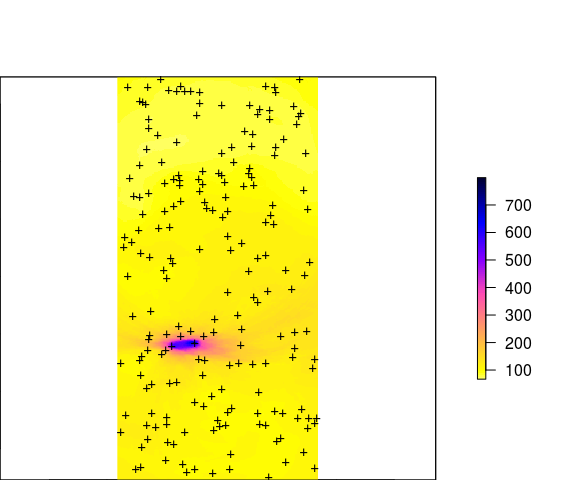
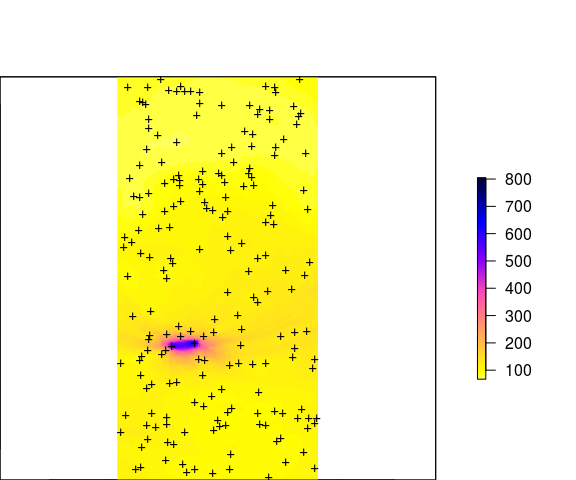
Added locations of the data sets in the README

diff --git a/README.md b/README.md
@@ -3,6 +3,7 @@ RFsp — Random Forest for spatial data (R tutorial)
 Hengl, T., Nussbaum, M., and Wright, M.N.
 
 -   [Installing and loading packages](#installing-and-loading-packages)
+-   [Data sets in use](#data-sets-in-use)
 -   [Spatial prediction 2D continuous variable using buffer distances](#spatial-prediction-2d-continuous-variable-using-buffer-distances)
 -   [Spatial prediction 2D variable with covariates](#spatial-prediction-2d-variable-with-covariates)
 -   [Spatial prediction of binomial variable](#spatial-prediction-of-binomial-variable)
@@ -49,13 +50,14 @@ library(rgdal)
 
     ## Loading required package: sp
 
-    ## rgdal: version: 1.2-7, (SVN revision 660)
+    ## rgdal: version: 1.3-3, (SVN revision (unknown))
     ##  Geospatial Data Abstraction Library extensions to R successfully loaded
-    ##  Loaded GDAL runtime: GDAL 2.2.1, released 2017/06/23
+    ##  Loaded GDAL runtime: GDAL 2.3.1, released 2018/06/22
     ##  Path to GDAL shared files: /usr/local/share/gdal
+    ##  GDAL binary built with GEOS: TRUE 
     ##  Loaded PROJ.4 runtime: Rel. 4.9.2, 08 September 2015, [PJ_VERSION: 492]
     ##  Path to PROJ.4 shared files: (autodetected)
-    ##  Linking to sp version: 1.2-4
+    ##  Linking to sp version: 1.2-5
 
 ``` r
 library(raster)
@@ -89,7 +91,7 @@ library(plyr)
 library(plotKML)
 ```
 
-    ## plotKML version 0.5-6 (2016-05-02)
+    ## plotKML version 0.5-9 (2017-05-15)
 
     ## URL: http://plotkml.r-forge.r-project.org/
 
@@ -111,6 +113,18 @@ We also load a number of local function prepared for the purpose of this tutoria
 ``` r
 source('./RF_vs_kriging/R/RFsp_functions.R')
 ```
+
+Data sets in use
+----------------
+
+This tutorial uses several data sets that are either available from the R packages listed or can be loaded from the `/RF_vs_kriging/data` directory. This is the complete list of data sets used in the tutorial and the scientific paper:
+
+-   Muse data set (sp package): topsoil heavy metal concentrations, along with a number of soil and landscape variables at 155 observation locations;
+-   Swiss rainfall dataset SIC 1997 (G Dubois, Malczewski, & De Cort, 2003) (see folder `./RF_vs_kriging/data/rainfall`): 467 measurements of daily rainfall in Switzerland on the 8th of May 1986;
+-   Ebergötzen data set (plotKML package): 3670 ground observations of soil types and texture by hand,
+-   National Cooperative Soil Survey (NCSS) data set for a sub-area around Carson (see folder `./RF_vs_kriging/data/NRCS`): contains 3418 measurements of clay content in soil;
+-   The National Geochemical Survey data set (see folder `./RF_vs_kriging/data/geochem`): 2858 points with measurements of Pb, Cu, K and Mg covering the US states Illinois and Indiana;
+-   Boulder Colorado daily precipitation (see folder `./RF_vs_kriging/data/st_prec`): 176,467 measurements of daily precipitation for the period 20142017,
 
 Spatial prediction 2D continuous variable using buffer distances
 ----------------------------------------------------------------
@@ -605,9 +619,9 @@ str(pred.grids@data)
     ##  $ pred_soil1: num  0.716 0.713 0.713 0.693 0.713 ...
     ##  $ pred_soil2: num  0.246 0.256 0.256 0.27 0.256 ...
     ##  $ pred_soil3: num  0.0374 0.0307 0.0307 0.0374 0.0307 ...
-    ##  $ se_soil1  : num  0.1793 0.168 0.168 0.0906 0.168 ...
-    ##  $ se_soil2  : num  0.1449 0.0801 0.0801 0.0787 0.0801 ...
-    ##  $ se_soil3  : num  0.0424 0.0423 0.0423 0.0424 0.0423 ...
+    ##  $ se_soil1  : num  0.181 0.1695 0.1695 0.0895 0.1695 ...
+    ##  $ se_soil2  : num  0.1435 0.081 0.081 0.0798 0.081 ...
+    ##  $ se_soil3  : num  0.0393 0.0392 0.0392 0.0393 0.0392 ...
 
 where `pred_soil1` is the probability of occurrence of class 1 and `se_soil1` is the standard error of prediction for the `pred_soil1` based on the Jackknife-after-Bootstrap method (Wager et al., 2014). The first column in `pred.grids` contains existing map of `soil` with hard classes only.
 
@@ -630,8 +644,8 @@ coordinates(sic.test) <- ~x+y
 pred.sic2004 <- interpolate(sic.val, sic.test, maximumTime = 90)
 ```
 
-    FALSE R 2018-05-15 21:45:49 interpolating 200 observations, 808 prediction locations
-    FALSE [1] "estimated time for  copula 69.2769518150389"
+    FALSE R 2018-07-24 10:48:31 interpolating 200 observations, 808 prediction locations
+    FALSE [1] "estimated time for  copula 71.6110222693811"
     FALSE Checking object ... OK
 
 where `interpolate` is a fully automated framework for spatial predictions that selects from 5--6 state-of-the-art methods (Pebesma et al., 2011). The resulting error at validation points seems to be relatively high, which is probably due to the choice of transformation and/or variogram model:
@@ -677,8 +691,8 @@ m1.gamma
     ## Mtry:                             1 
     ## Target node size:                 5 
     ## Variable importance mode:         none 
-    ## OOB prediction error (MSE):       13135.66 
-    ## R squared (OOB):                  0.1168168
+    ## OOB prediction error (MSE):       13139.21 
+    ## R squared (OOB):                  0.1165779
 
 these predictions (when evaluated using the validation points) show better accuracy than obtained using the `interpolate` function:
 
@@ -688,7 +702,7 @@ ov.test <- over(sic.test, de2km["gamma_rfd1"])
 sd(sic.test$joker-ov.test$gamma_rfd1, na.rm=TRUE)
 ```
 
-    ## [1] 65.36887
+    ## [1] 66.92076
 
 this number matches also the average score generated by multiple groups at the SIC 2004 (G. Dubois, 2005). So in summary, although the OOB prediction error for the model above is still relatively high, RFsp manages to produce more accurate predictions than the `interpolate` function, probably because it does better job in accounting for the local hot-spots. Note also we set `mtry=1` here on purpose low because otherwise importance of the individual 1–2 hotspots would drop significantly.
 
@@ -769,8 +783,8 @@ m.clay
     ## Mtry:                             25 
     ## Target node size:                 5 
     ## Variable importance mode:         none 
-    ## OOB prediction error (MSE):       190.5888 
-    ## R squared (OOB):                  0.2293424
+    ## OOB prediction error (MSE):       186.608 
+    ## R squared (OOB):                  0.2192148
 
 in this case we used inverse measurement variance as `case.weights` so that points that were measured in the lab will receive much higher weights. Final output map below shows that, in this specific case, the model without weights seems to predict somewhat higher values, especially in the extrapolation areas. This indicates that using measurement errors in model calibration is important and one should not avoid specifying this in the model, especially if the training data is significantly heterogeneous.
 
@@ -1018,10 +1032,12 @@ Note from the maps above that some hot spots in the prediction error maps from p
 
 One disadvantage of fitting spatiotemporal models using station data is that the actual accuracy of this models need to be assessed using leave-locations-out cross-validation (Meyer, Reudenbach, Hengl, Katurji, & Nauss, 2018), otherwise ranger might give an overoptimistic estimate of the actual accuracy. This happens because RF learns also from *"location"* so that the realistic estimate of accuracy can often be [significantly lower](https://geocompr.robinlovelace.net/spatial-cv.html#spatial-cv-with-mlr) if this issue is ignored.
 
-In summary, Random Forest seems to be suitable for generating spatial and spatiotemporal predictions. Computing time, however, can be a cumbersome and working with data sets with &gt;&gt;1000 point locations (hence &gt;&gt;1000 buffer distance maps) is problably not yet recommended. Also cross-validation of accuracy of predictions produced using RFsp needs to be implemented using leave-location-out CV to account for spatial autocorrelation in data. The key to the success of the RFsp framework might be the training data quality — especially quality of spatial sampling (to minimize extrapolation problems and any type of bias in data), and quality of model validation (to ensure that accuracy is not effected by overfitting). For all other details please refer to [our paper](https://peerj.com/preprints/26693/).
+In summary, Random Forest seems to be suitable for generating spatial and spatiotemporal predictions once the geographical distances are added to the model (see also (Behrens et al., n.d.)). Computing time, however, can be a cumbersome and working with data sets with &gt;&gt;1000 point locations (hence &gt;&gt;1000 buffer distance maps) is problably not yet recommended. Also cross-validation of accuracy of predictions produced using RFsp needs to be implemented using leave-location-out CV to account for spatial autocorrelation in data. The key to the success of the RFsp framework might be the training data quality — especially quality of spatial sampling (to minimize extrapolation problems and any type of bias in data), and quality of model validation (to ensure that accuracy is not effected by overfitting). For all other details please refer to [our paper](https://peerj.com/preprints/26693/).
 
 References
 ----------
+
+Behrens, T., Schmidt, K., Viscarra Rossel, R. A., Gries, P., Scholten, T., & MacMillan, R. A. (n.d.). Spatial modelling with euclidean distance fields and machine learning. *European Journal of Soil Science*, *in press*. doi:[10.1111/ejss.12687](https://doi.org/10.1111/ejss.12687)
 
 Brown, P. E. (2015). Model-based geostatistics the easy way. *Journal of Statistical Software*, *63*(12). Retrieved from <http://www.jstatsoft.org/v63/i12>
 
@@ -1029,13 +1045,15 @@ Diggle, P. J., & Ribeiro Jr, P. J. (2007). *Model-based Geostatistics* (p. 288).
 
 Dubois, G. (Ed.). (2005). *Automatic mapping algorithms for routine and emergency monitoring data* (p. 150). Luxembourg: Office for Official Publications of the European Communities.
 
+Dubois, G., Malczewski, J., & De Cort, M. (2003). *Mapping radioactivity in the environment: Spatial interpolation comparison 97*. Office for Official Publications of the European Communities.
+
 Grossman, J. N., Grosz, A. E., Schweitzer, P. N., & Schruben, P. G. (2004). *The National Geochemical Survey-database and documentation*. USGS Eastern Mineral; Environmental Resources Science Center.
 
 Hengl, T. (2009). *A practical guide to geostatistical mapping*. Amsterdam, the Netherlands: Lulu.
 
 Hijmans, R. J., & Etten, J. van. (2017). *Raster: Geographic data analysis and modeling*. Retrieved from <https://cran.r-project.org/package=raster>
 
-Meinshausen, N. (2006). Quantile regression forests. *Journal of Machine Learning Research*, *7*(Jun), 983–999.
+Meinshausen, N. (2006). Quantile regression forests. *Journal of Machine Learning Research*, *7*, 983–999.
 
 Meyer, H., Reudenbach, C., Hengl, T., Katurji, M., & Nauss, T. (2018). Improving performance of spatio-temporal machine learning models using forward feature selection and target-oriented validation. *Environmental Modelling & Software*, *101*, 1–9. doi:[10.1016/j.envsoft.2017.12.001](https://doi.org/10.1016/j.envsoft.2017.12.001)
 
